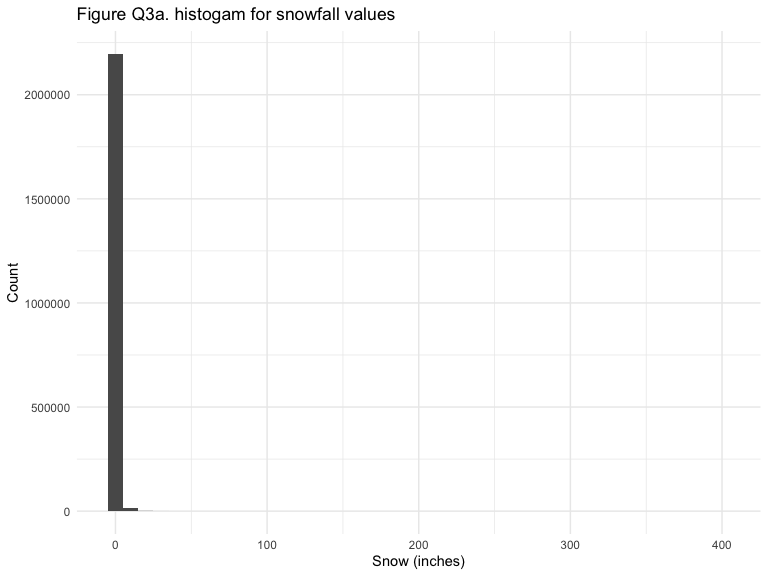
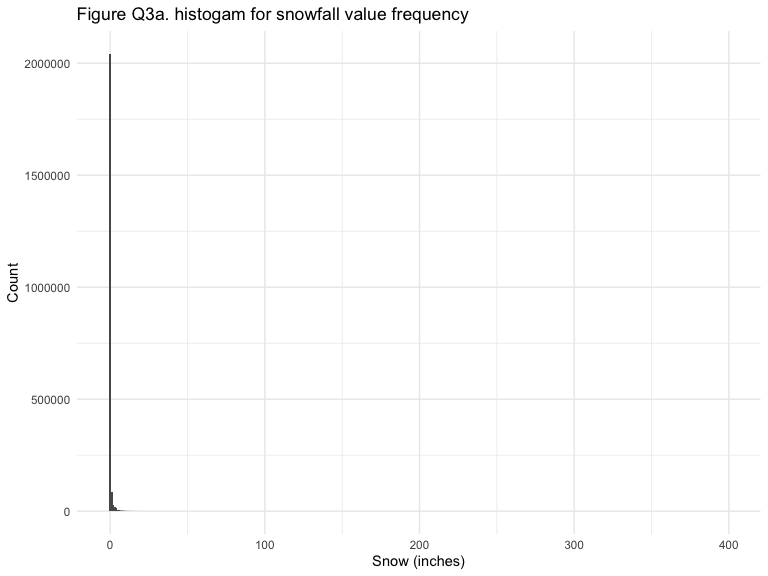
finish problem 3 (add 2 plots)

diff --git a/p1805_hw3_jc5457.md b/p1805_hw3_jc5457.md
@@ -260,8 +260,11 @@ Then, transfer the unit of observations:
 -   precipitation (0.1 mm to inch),
 -   snowfall (mm to inch)
 
+Then, visualize the data to find the most commonly observed values for
+snowfall.
+
 ``` r
-noaa_tidy <- ny_noaa %>% 
+noaa_tidy = ny_noaa %>% 
   separate(date, sep="-", into = c("year","month","day")) %>% 
   mutate(year = as.numeric(year), 
          month = as.numeric(month), 
@@ -273,44 +276,102 @@ noaa_tidy <- ny_noaa %>%
          tmin = as.integer(round(as.numeric(tmin)*.1*1.8+32))
          )
 
-str(noaa_tidy)
-```
-
-    ## tibble [2,595,176 × 9] (S3: tbl_df/tbl/data.frame)
-    ##  $ id   : chr [1:2595176] "US1NYAB0001" "US1NYAB0001" "US1NYAB0001" "US1NYAB0001" ...
-    ##  $ year : num [1:2595176] 2007 2007 2007 2007 2007 ...
-    ##  $ month: num [1:2595176] 11 11 11 11 11 11 11 11 11 11 ...
-    ##  $ day  : num [1:2595176] 1 2 3 4 5 6 7 8 9 10 ...
-    ##  $ prcp : int [1:2595176] NA NA NA NA NA NA NA NA NA NA ...
-    ##  $ snow : int [1:2595176] NA NA NA NA NA NA NA NA NA NA ...
-    ##  $ snwd : int [1:2595176] NA NA NA NA NA NA NA NA NA NA ...
-    ##  $ tmax : int [1:2595176] NA NA NA NA NA NA NA NA NA NA ...
-    ##  $ tmin : int [1:2595176] NA NA NA NA NA NA NA NA NA NA ...
-
-``` r
-snowfall_hist = noaa_tidy %>%
+noaa_tidy %>%
   ggplot(aes(x = snow)) + 
-    geom_histogram(binwidth=10,na.rm=TRUE) +
-    labs(
-    title = "Figure Q3a. histogam for snowfall values",
-    x = "Snow (inches)",
-    y = "Count")
-snowfall_hist
+    geom_histogram(binwidth=1,na.rm=TRUE) +
+    labs(title = "Figure Q3a. histogam for snowfall value frequency",
+         x = "Snow (inches)",
+         y = "Count")
 ```
 
 <img src="p1805_hw3_jc5457_files/figure-gfm/unnamed-chunk-10-1.png" width="90%" />
 
-For snowfall, the most commonly observed values are? Why?
+From the plot we can see: For snowfall, the most commonly observed
+values are 0. Because snowfall usually takes place in some winter days
+in NY State, for most of the days in a year there’s no snowfall.
 
 #### Make a two-panel plot
 
-Make a two-panel plot showing the average max temperature in January and
-in July in each station across years. Is there any observable /
-interpretable structure? Any outliers?
+Here we make a two-panel plot showing the average max `temperature` in
+January and in July in each station across `years`.
+
+``` r
+noaa_avg = noaa_tidy %>% 
+  filter((month == 1 | month == 7) & !is.na(tmax)) %>% 
+  group_by(id,year,month) %>% 
+  summarise(avg_tmax = mean(tmax), .groups = "keep") %>% 
+  mutate(month = recode(month,`1` = "January", `7` = "July"),
+         avg_tmax = round(avg_tmax))
+  
+ggplot(data = noaa_avg)+
+  geom_line(aes(x = year,y = avg_tmax,color=id),
+            show.legend = FALSE,alpha=.3
+            )+
+  geom_smooth(aes(x = year,y = avg_tmax),
+              color="black",show.legend = FALSE
+              )+
+  facet_grid(~month)+
+  labs(title = "Figure Q3b. two-panel plot of the average max temperature in January and in July in each station across years",
+       x = "Year",
+       y = "Average Max Temp (degrees F)"
+       )+ 
+  scale_x_continuous(n.breaks = 10)
+```
+
+    ## `geom_smooth()` using method = 'gam' and formula 'y ~ s(x, bs = "cs")'
+
+<img src="p1805_hw3_jc5457_files/figure-gfm/unnamed-chunk-11-1.png" width="90%" />
+
+1.  observable / interpretable structure:
+
+-   July’s average max temperatures are higher than January’s, which is
+    expected as summer have higher temperatures than winter.
+-   The average max temperatures in each station across the years
+    fluctuate much more in January than that in July.
+
+2.  Outliers:
+
+-   In January 1982 and July 1988 we can observe two outliers with much
+    lower average temperatures comparing with other data points.
 
 #### Make another two-panel plot
 
-Make a two-panel plot showing (i) tmax vs tmin for the full dataset
-(note that a scatterplot may not be the best option); and (ii) make a
-plot showing the distribution of snowfall values greater than 0 and less
-than 100 separately by year.
+Here we make a two-panel plot showing (i) `tmax` vs `tmin` for the full
+dataset; and (ii) the distribution of `snowfall` values greater than 0
+and less than 100 separately by year.
+
+``` r
+t_vs = noaa_tidy %>% 
+  pivot_longer(cols=c("tmax","tmin"),
+               names_to = "t_cat",
+               values_to = "t_val") %>% 
+  ggplot(aes(x = t_val)) +
+  geom_density(aes(fill = t_cat), 
+               color = "green", alpha = .5,na.rm = TRUE)+
+  labs(fill = '',
+       title = "Figure Q3c. tmax vs tmin",
+       x = "Temperature (Degrees F)",
+       y = "Density")
+
+snow_year = 
+  ny_noaa %>% 
+  select(id,date,snow) %>% 
+  filter(snow>0 & snow<100) %>% 
+  separate(date,sep="-",into=c("year","month","day")) %>% 
+  mutate(
+    year = as.factor(year),
+    month = as.numeric(month),
+    day = as.numeric(day)
+    ) %>% 
+  ggplot(aes(x = year,y = snow))+
+  geom_violin(aes(fill = year),
+              color="green",show.legend = FALSE)+
+  theme(axis.text.x = element_text(angle = -75)) +
+  labs(title = "Figure Q3d. distribution of snowfall (<100 mm) separated by year",
+       x = "Year",
+       y = "Snowfall (mm)")
+
+t_vs/snow_year
+```
+
+<img src="p1805_hw3_jc5457_files/figure-gfm/unnamed-chunk-12-1.png" width="90%" />
